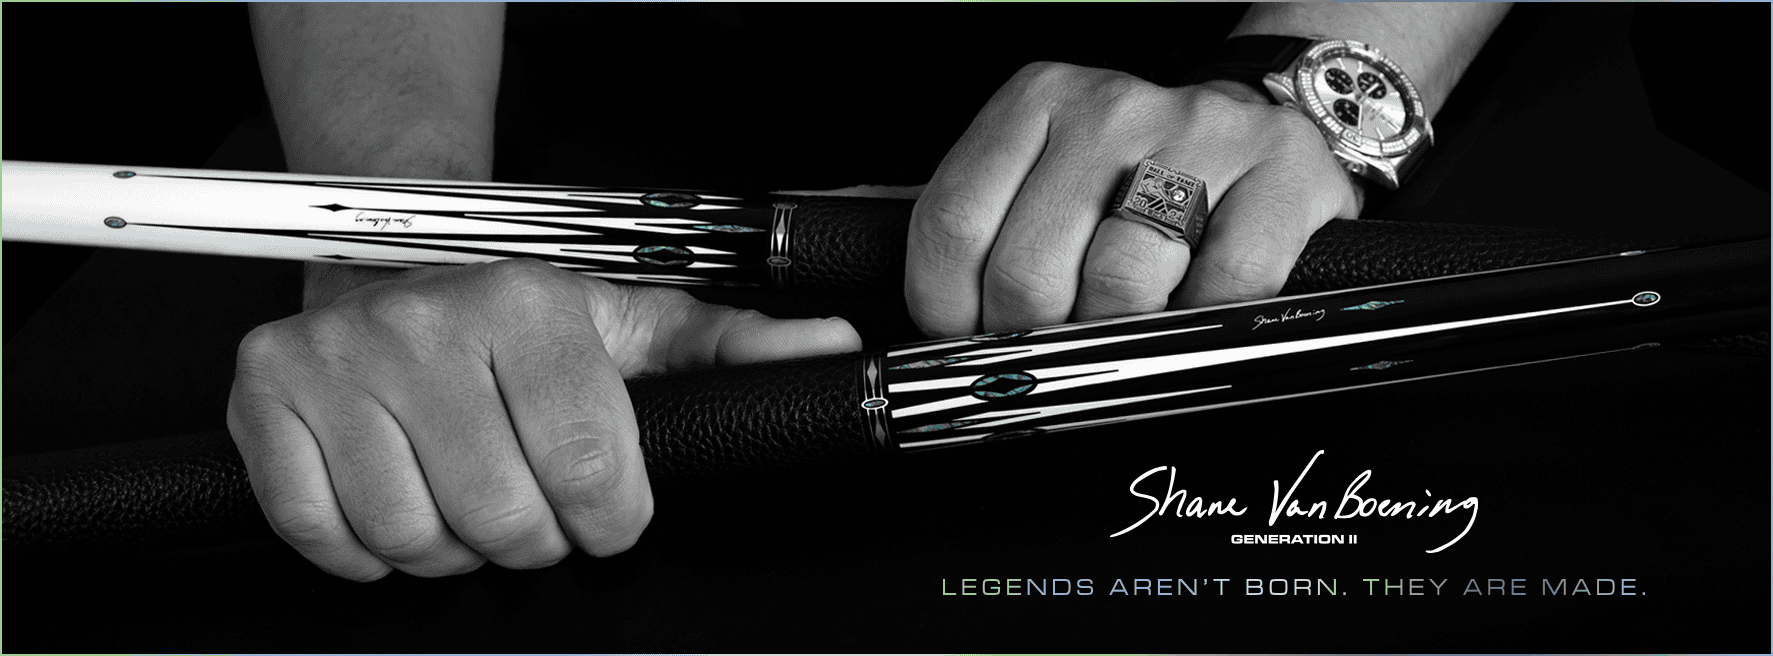
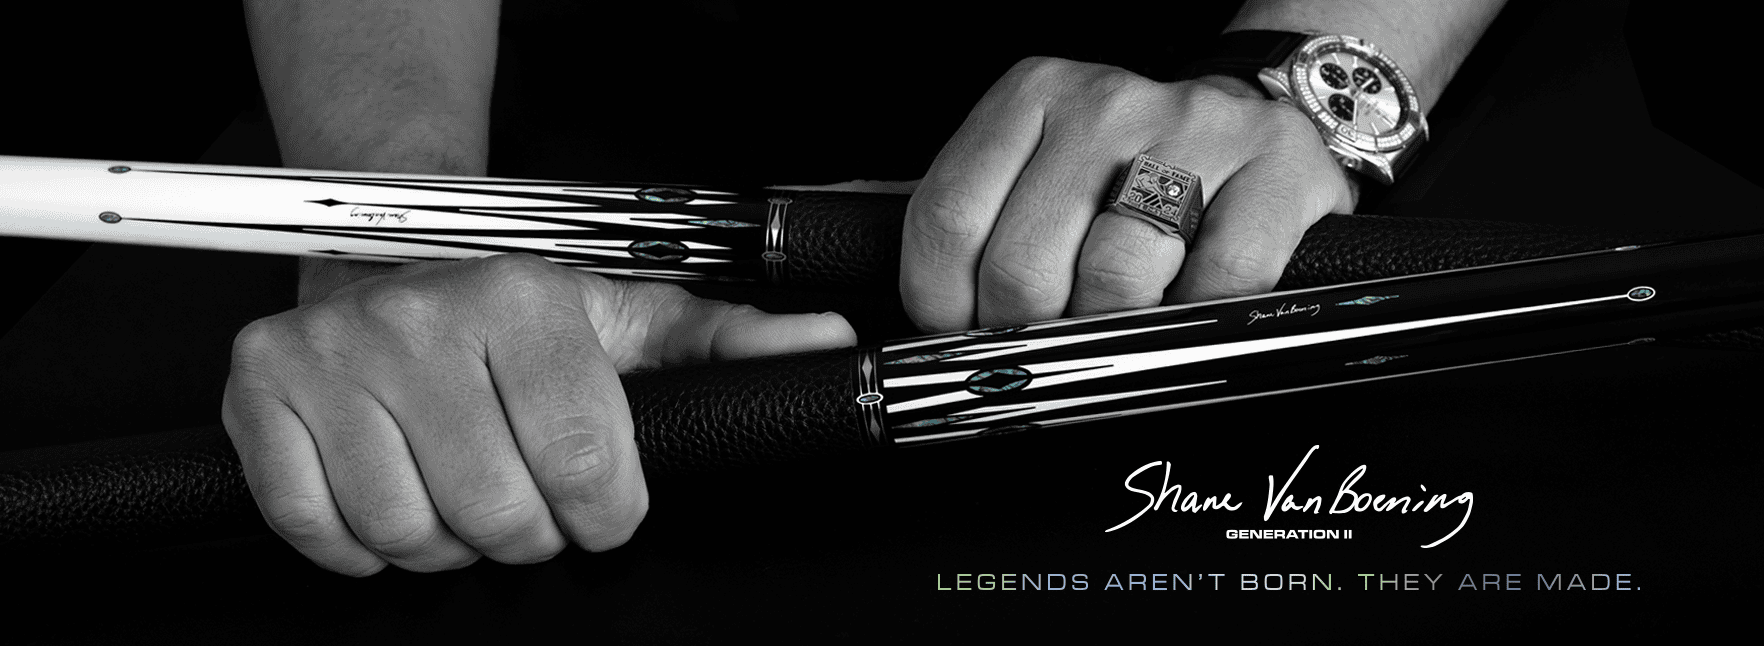
Ajustes al carousel principal de imagenes

diff --git a/02.Project/ecommerce-app/src/app/components/carousel/carousel.component.html b/02.Project/ecommerce-app/src/app/components/carousel/carousel.component.html
@@ -1,10 +1,10 @@
 <div
-  class="relative w-full max-w-6xl mx-auto bg-white rounded-lg shadow-md hover:shadow-lg transition-shadow duration-300 mb-8 z-10"
+  class="relative w-full h-130 bg-white rounded-lg shadow-md hover:shadow-lg transition-shadow duration-300 mb-8 z-10"
 >
-  <div class="relative h-64 md:h-80 lg:h-96">
+  <div class="relative w-full h-auto md:h-80 lg:h-96">
     @for(image of images; track $index){
     <div
-      class="absolute inset-0 transition-opacity duration-500 ease-in-out"
+      class="absolute inset-0 h-130 transition-opacity duration-600 ease-in-out"
       [class.opacity-100]="$index === currentIndex"
       [class.opacity-0]="$index !== currentIndex"
     >

diff --git a/02.Project/ecommerce-app/src/app/components/carousel/carousel.component.ts b/02.Project/ecommerce-app/src/app/components/carousel/carousel.component.ts
@@ -23,10 +23,8 @@ export type carouselImages =  {
 })
 export class CarouselComponent implements OnInit, OnChanges, OnDestroy {
   @Input() images: carouselImages = [
-    { src: 'images/bread.jpg', loaded: false, loading: false, alt: '' },
-    { src: 'images/esp32.jpg', loaded: false, loading: false, alt: '' },
-    { src: 'images/fruta.jpg', loaded: false, loading: false, alt: '' },
-    { src: 'images/silksong.jpg', loaded: false, loading: false, alt: '' },
+    { src: 'IMG/Cuetec/SVB-G2-Banner.png', loaded: false, loading: false, alt: '' },
+    { src: 'IMG/Cuetec/CYNERGY-X-BANNER.png', loaded: false, loading: false, alt: '' }
   ];
 
   @Input() autoPlay: boolean = true;

diff --git a/02.Project/ecommerce-app/src/app/pages/home/home.component.html b/02.Project/ecommerce-app/src/app/pages/home/home.component.html
@@ -1,9 +1,9 @@
 <app-search-products class="z-9999"></app-search-products>
-<div class="relative w-full max-w-6xl mx-auto">
+<div class="relative w-full  mx-auto">
   <!-- {{title}} -->
   <app-carousel
     [autoPlay]="autoPlay"
-    [interval]="3000"
+    [interval]="7000"
     [showIndicators]="indicators"
     [showControls]="indicators"
   >
